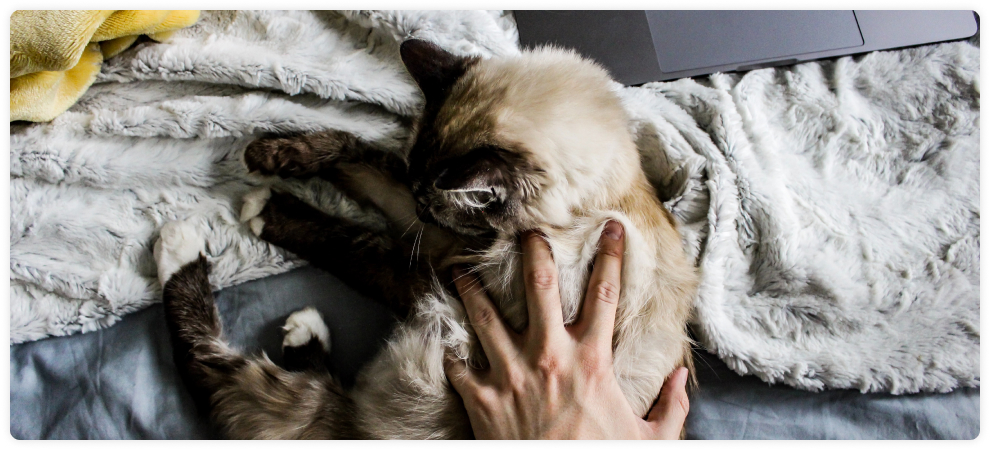
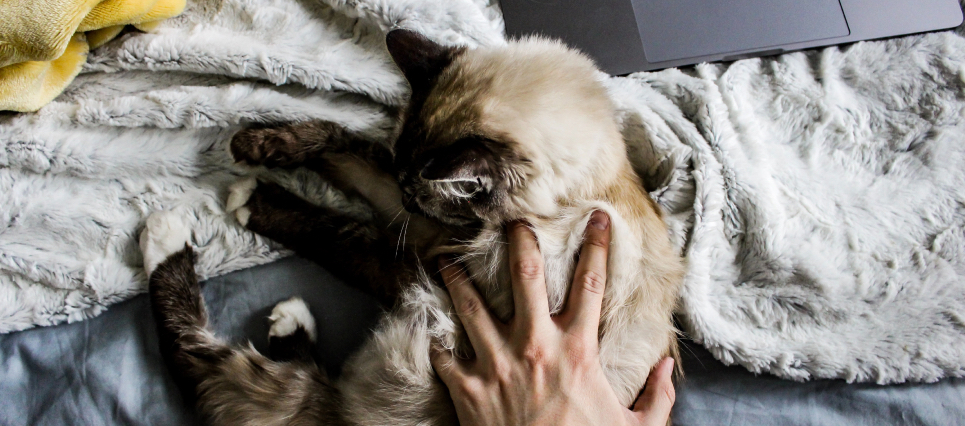
add video

diff --git a/index.html b/index.html
@@ -252,6 +252,25 @@
   </div>
 </div>
 
+<!--video-------------------------------->
+
+<div class="container-fluid video">
+  <div class="row">
+    <div class=" my-5 col-6 offset-3 text-white text-center">
+      <h2 class="fw-700 mt-5">Видео о нашей работе</h2>
+      <p>Просто посмотрите, как мы работаем</p>
+    </div>
+  </div>
+
+  <div class="row video-frame justify-content-center">
+    <div class="align-self-center text-white py-3 px-5 video-play">
+      <img src="/assets/icons/play-button.svg" alt="">
+      <span class="pl-4">Смотреть видео</span>
+    </div>
+    <img src="/assets/img/cat-5.jpg" alt="">
+  </div>
+</div>
+
 </body>
 </html>
 

diff --git a/assets/css/main.scss b/assets/css/main.scss
@@ -168,5 +168,22 @@ h2 {
   }
 }
 
+.video {
+  background: transparent no-repeat 50% 0 url("../img/cat-11.jpg");
+  background-size: 100%;
+
+  .video-frame {
+    position: relative;
+
+    .video-play {
+      position: absolute;
+      border: white solid 1px;
+      border-radius: 50px;
+    }
+    img {
+      border-radius: 10px;
+    }
+  }
+}
 
 
